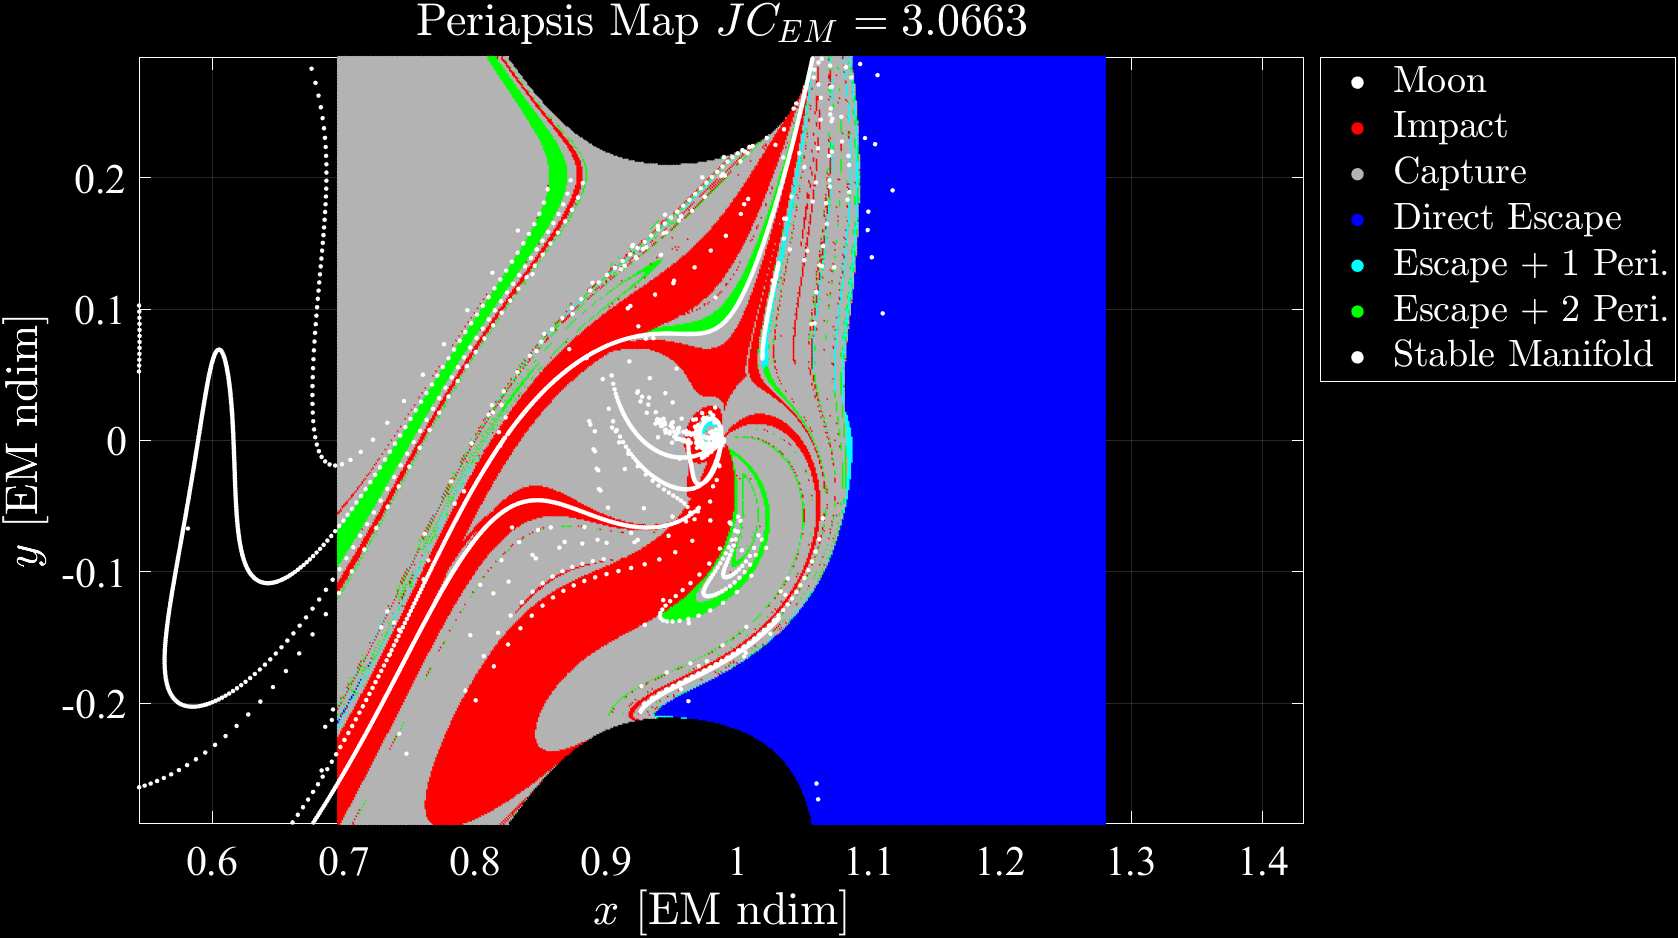
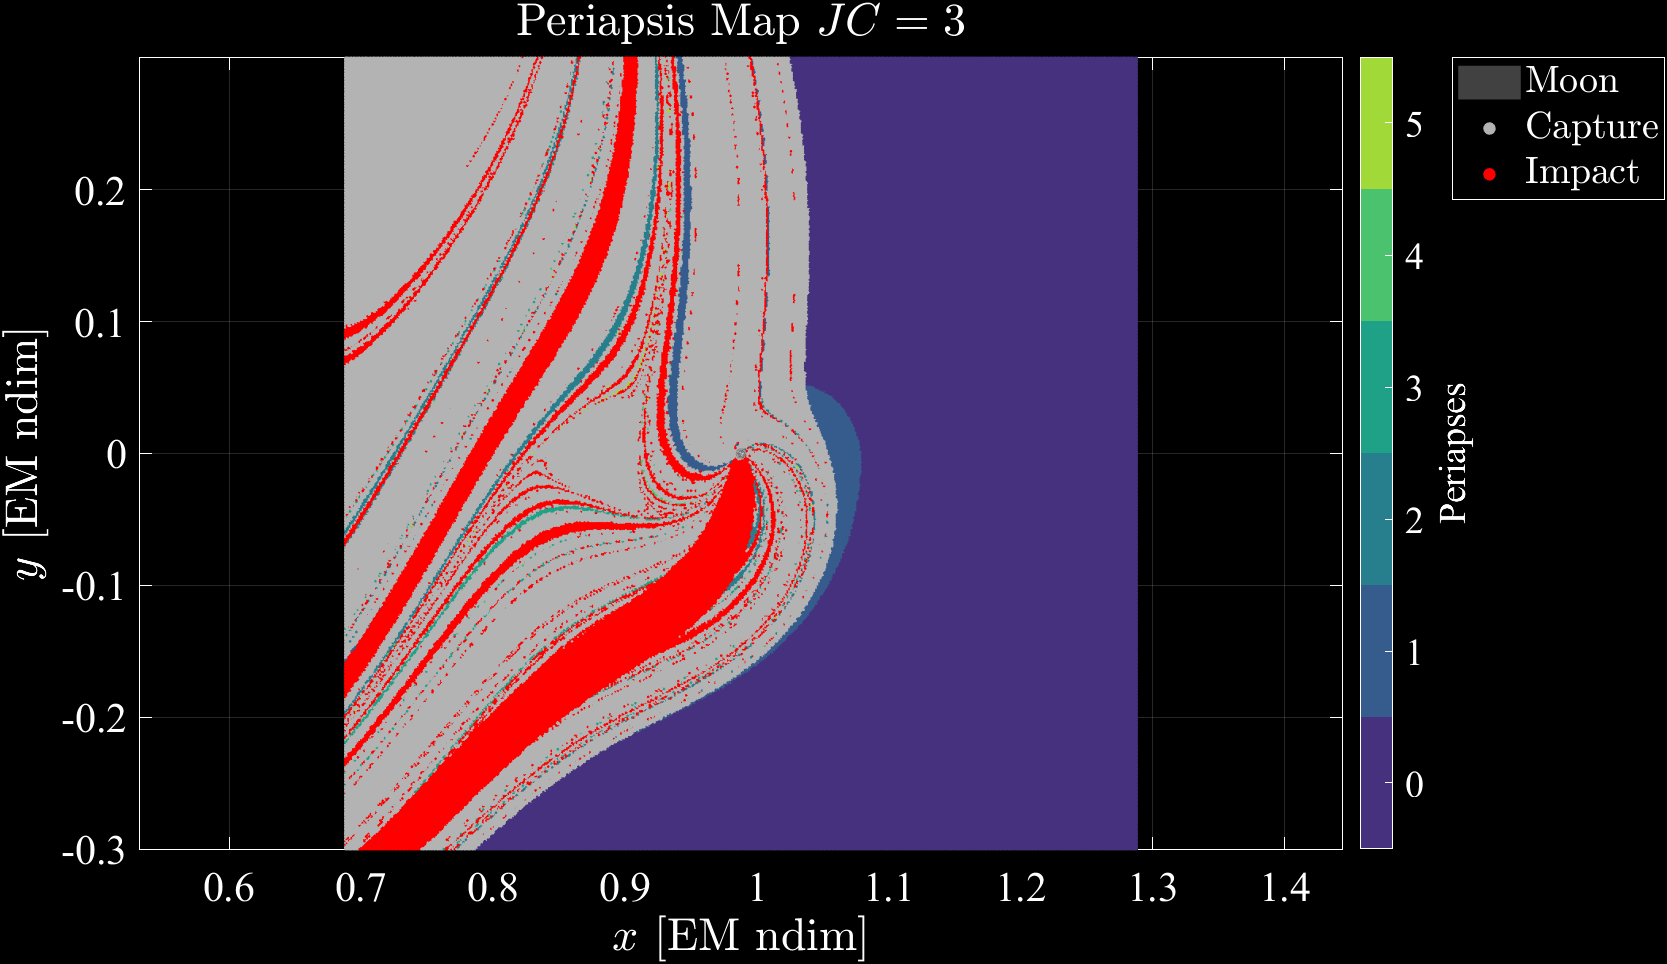
Updated PeriapsisMap script

diff --git a/PeriapsisMap.m b/PeriapsisMap.m
@@ -1,12 +1,17 @@
 %%% PeriapsisMap.jl
 %%% Jonathan Richmond
 %%% C: 24 October 2025
-%%% U: 12 November 2025
+%%% U: 18 November 2025
 
 clear
 % set(0, 'DefaultFigureVisible', 'off');
 set(0, 'DefaultFigureVisible', 'on');
-load('../PhDScripts/Output/PeriapsisMap.mat')
+load('../PhDScripts/Output//PeriapsisMaps/PeriapsisMap.mat')
+% load('../PhDScripts/Output/PeriapsisMaps/PeriapsisMap_3_0663.mat')
+% load('../PhDScripts/Output/PeriapsisMaps/PeriapsisMap_3_0.mat')
+% load('../PhDScripts/Output/PeriapsisMaps/PeriapsisMap_3_0663_Moon.mat')
+% load('../PhDScripts/Output/PeriapsisMaps/PeriapsisMap_3_0_Moon.mat')
+% load('../PhDScripts/Output/PeriapsisMaps/PeriapsisMap_3_0663_Manifold.mat')
 n = length(flagsBCR4BP);
 
 %% Earth-Moon Data
@@ -44,11 +49,11 @@ colorMap(7,:) = 0.7*[1, 1, 1];
 colorMap(8,:) = [1, 0, 0];
 colorMap(9,:) = [0, 0, 0];
 
-% xMan = zeros(length(manifold), 1);
-% yMan = zeros(length(manifold), 1);
-% for j = 1:length(manifold)
-%     xMan(j) = manifold{j}(1);
-%     yMan(j) = manifold{j}(2);
+% peri = 5;
+% for j = 1:8
+%     if j ~= peri+1
+%         colorMap(j,:) = 0.7*[1, 1, 1];
+%     end
 % end
 
 %% CR3BP Periapsis Map
@@ -64,7 +69,7 @@ scatter(nan, nan, 20, 0.7*[1, 1, 1], 'filled', 'DisplayName', "Capture")
 scatter(nan, nan, 20, [1, 0, 0], 'filled', 'DisplayName', "Impact")
 axis equal
 % ax = axis;
-% scatter(xMan, yMan, 5, 'w', 'filled', 'DisplayName', "Stable Manifold")
+% scatter(xManifold, yManifold, 3, 'w', 'filled', 'DisplayName', "Stable Manifold")
 % axis(ax)
 grid on
 xlabel("$x$ [EM ndim]", 'Interpreter', 'latex')
@@ -83,7 +88,7 @@ hold off
 % exportgraphics(fig1, 'PeriapsisMap_1.png', 'BackgroundColor', 'k')
 
 %% BCR4BP Periapsis Map
-t = 2;
+t = 1;
 fig2 = figure("Position", [200 100 1200 750]);
 hold on
 scatter(xPoints, yPoints, 1.75, colorMap(flagsBCR4BP{t}+1,:), 'filled', 'HandleVisibility', 'off')
@@ -94,8 +99,10 @@ set(Moon, 'DisplayName', "Moon")
 % plot(RH/lstar*cos(linspace(0, 2*pi, 101)), RH/lstar*sin(linspace(0, 2*pi, 101)), 'w--', 'DisplayName', "Hills Radius")
 scatter(nan, nan, 20, 0.7*[1, 1, 1], 'filled', 'DisplayName', "Capture")
 scatter(nan, nan, 20, [1, 0, 0], 'filled', 'DisplayName', "Impact")
-% scatter(xMan, yMan, 5, 'w', 'filled', 'DisplayName', "Stable Manifold")
 axis equal
+% ax = axis;
+% scatter(xManifold, yManifold, 3, 'w', 'filled', 'DisplayName', "Stable Manifold")
+% axis(ax)
 grid on
 xlabel("$x$ [EM ndim]", 'Interpreter', 'latex')
 ylabel("$y$ [EM ndim]", 'Interpreter', 'latex')
@@ -138,8 +145,11 @@ hold off
 % set(Earth, 'DisplayName', "Earth")
 % Moon = plot3DBody("Moon", Rm/lstar, [1-mu, 0, 0]);
 % set(Moon, 'DisplayName', "Moon")
-% plot(Traj12.x, Traj12.y, 'c', 'DisplayName', "Trajectory")
-% scatter(Traj12.x(1), Traj12.y(1), 50, 'w', '*', 'DisplayName', "S$B_{1}$ Peri.")
+% plot(RH/lstar*cos(linspace(0, 2*pi, 101))+1-muSB1, RH/lstar*sin(linspace(0, 2*pi, 101)), 'w--', 'DisplayName', "Hills Radius")
+% plot(PreBurn.x, PreBurn.y, 'Color', 0.7*[1, 1, 1], 'DisplayName', "Old Traj.")
+% plot(NoBurn.x, NoBurn.y, 'Color', 0.7*[1, 1, 1], 'HandleVisibility', 'off')
+% plot(PostBurn.x, PostBurn.y, 'g', 'DisplayName', "New Traj.")
+% scatter(PostBurn.x(1), PostBurn.y(1), 50, 'w', '^', 'filled', 'DisplayName', "$\Delta v="+num2str(deltav*1000, '%.2f')+"$ m/s")
 % axis equal
 % grid on
 % xlabel("$x$ [EM ndim]", 'Interpreter', 'latex')
@@ -151,10 +161,45 @@ hold off
 % hold off
 % % exportgraphics(fig4, 'PeriapsisMap_4.png', 'BackgroundColor', 'k')
 
+%% All Angles Map
+% flagsM = cell2mat(flagsBCR4BP(:).');   % each row is flagsBCR4BP{j}
+% flagsAllBCR4BP = flagsBCR4BP{1};
+% flagsAllBCR4BP(any(flagsM == peri, 2)) = peri;
+% xLobe = xPoints(flagsAllBCR4BP == peri);
+% yLobe = yPoints(flagsAllBCR4BP == peri);
+% area = length(xLobe)/length(flagsAllBCR4BP);
+% 
+% fig5 = figure("Position", [200 100 1200 750]);
+% hold on
+% scatter(xPoints, yPoints, 1.75, colorMap(flagsAllBCR4BP+1,:), 'filled', 'HandleVisibility', 'off')
+% Earth = plot3DBody("Earth", RE/lstar, [-mu, 0, 0]);
+% set(Earth, 'DisplayName', "Earth")
+% Moon = plot3DBody("Moon", Rm/lstar, [1-mu, 0, 0]);
+% set(Moon, 'DisplayName', "Moon")
+% % plot(RH/lstar*cos(linspace(0, 2*pi, 101)), RH/lstar*sin(linspace(0, 2*pi, 101)), 'w--', 'DisplayName', "Hills Radius")
+% scatter(nan, nan, 20, 0.7*[1, 1, 1], 'filled', 'DisplayName', "Capture")
+% scatter(nan, nan, 20, [1, 0, 0], 'filled', 'DisplayName', "Impact")
+% axis equal
+% grid on
+% xlabel("$x$ [EM ndim]", 'Interpreter', 'latex')
+% ylabel("$y$ [EM ndim]", 'Interpreter', 'latex')
+% title("Periapsis Map (BCR4BP) $JC="+num2str(JC)+"$", 'Interpreter', 'latex')
+% cb5 = colorbar;
+% colormap(colorMap(1:6,:));
+% caxis([-0.5 5.5]);
+% cb5.Ticks = 0:5;
+% cb5.TickLabels = string(0:5);
+% cb5.Label.String = 'Periapses';
+% leg5 = legend('Location', 'bestoutside', 'Interpreter', 'latex');
+% set(gca, 'Color', 'k');
+% view(2)
+% hold off
+% % exportgraphics(fig5, 'PeriapsisMap_5.png', 'BackgroundColor', 'k')
+
 %% Animation
 % % Video Object and Figure Params
-% writerObj = VideoWriter('PeriapsisMap_3_0663_500.mp4', 'MPEG-4');
-% writerObj.FrameRate = 5;
+% writerObj = VideoWriter('PeriapsisMap_3_0663_500_Moon.mp4', 'MPEG-4');
+% writerObj.FrameRate = 20;
 % writerObj.Quality = 100;
 % open(writerObj);
 % fig = figure('units', 'normalized', 'outerposition', [0 0 1 1]);
@@ -163,7 +208,7 @@ hold off
 % box on
 % 
 % % Plot Loop
-% for t = 1:length(moonAngles)
+% for t = 1:length(thetaS)
 %     fig;
 % 
 %     hold on
@@ -175,24 +220,27 @@ hold off
 %     scatter(nan, nan, 20, 0.7*[1, 1, 1], 'filled', 'DisplayName', "Capture")
 %     scatter(nan, nan, 20, [1, 0, 0], 'filled', 'DisplayName', "Impact")
 %     axis equal
+%     ax = axis;
+%     scatter(xManifold, yManifold, 3, 'w', 'filled', 'DisplayName', "Stable Manifold")
+%     axis(ax)
 %     grid on
 %     xlabel("$x$ [EM ndim]", 'Interpreter', 'latex')
 %     ylabel("$y$ [EM ndim]", 'Interpreter', 'latex')
 %     title("Periapsis Map $JC="+num2str(JC)+"$ $|$ $\theta_{S}="+num2str(thetaS(t)*180/pi)+"^\circ$", 'Interpreter', 'latex')
-%     cb2 = colorbar;
+%     cb = colorbar;
 %     colormap(colorMap(1:6,:));
 %     caxis([-0.5 5.5]);
-%     cb2.Ticks = 0:5;
-%     cb2.TickLabels = string(0:5);
-%     cb2.Label.String = 'Periapses';
-%     leg2 = legend('Location', 'bestoutside', 'Interpreter', 'latex');
+%     cb.Ticks = 0:5;
+%     cb.TickLabels = string(0:5);
+%     cb.Label.String = 'Periapses';
+%     leg = legend('Location', 'bestoutside', 'Interpreter', 'latex');
 %     set(gca, 'Color', 'k');
 %     view(2)
 %     hold off
 % 
 %     frame = getframe(gcf);
 %     writeVideo(writerObj, frame);
-%     if t == length(moonAngles)
+%     if t == length(thetaS)
 %         writeVideo(writerObj, frame);
 %     end
 %     clf
